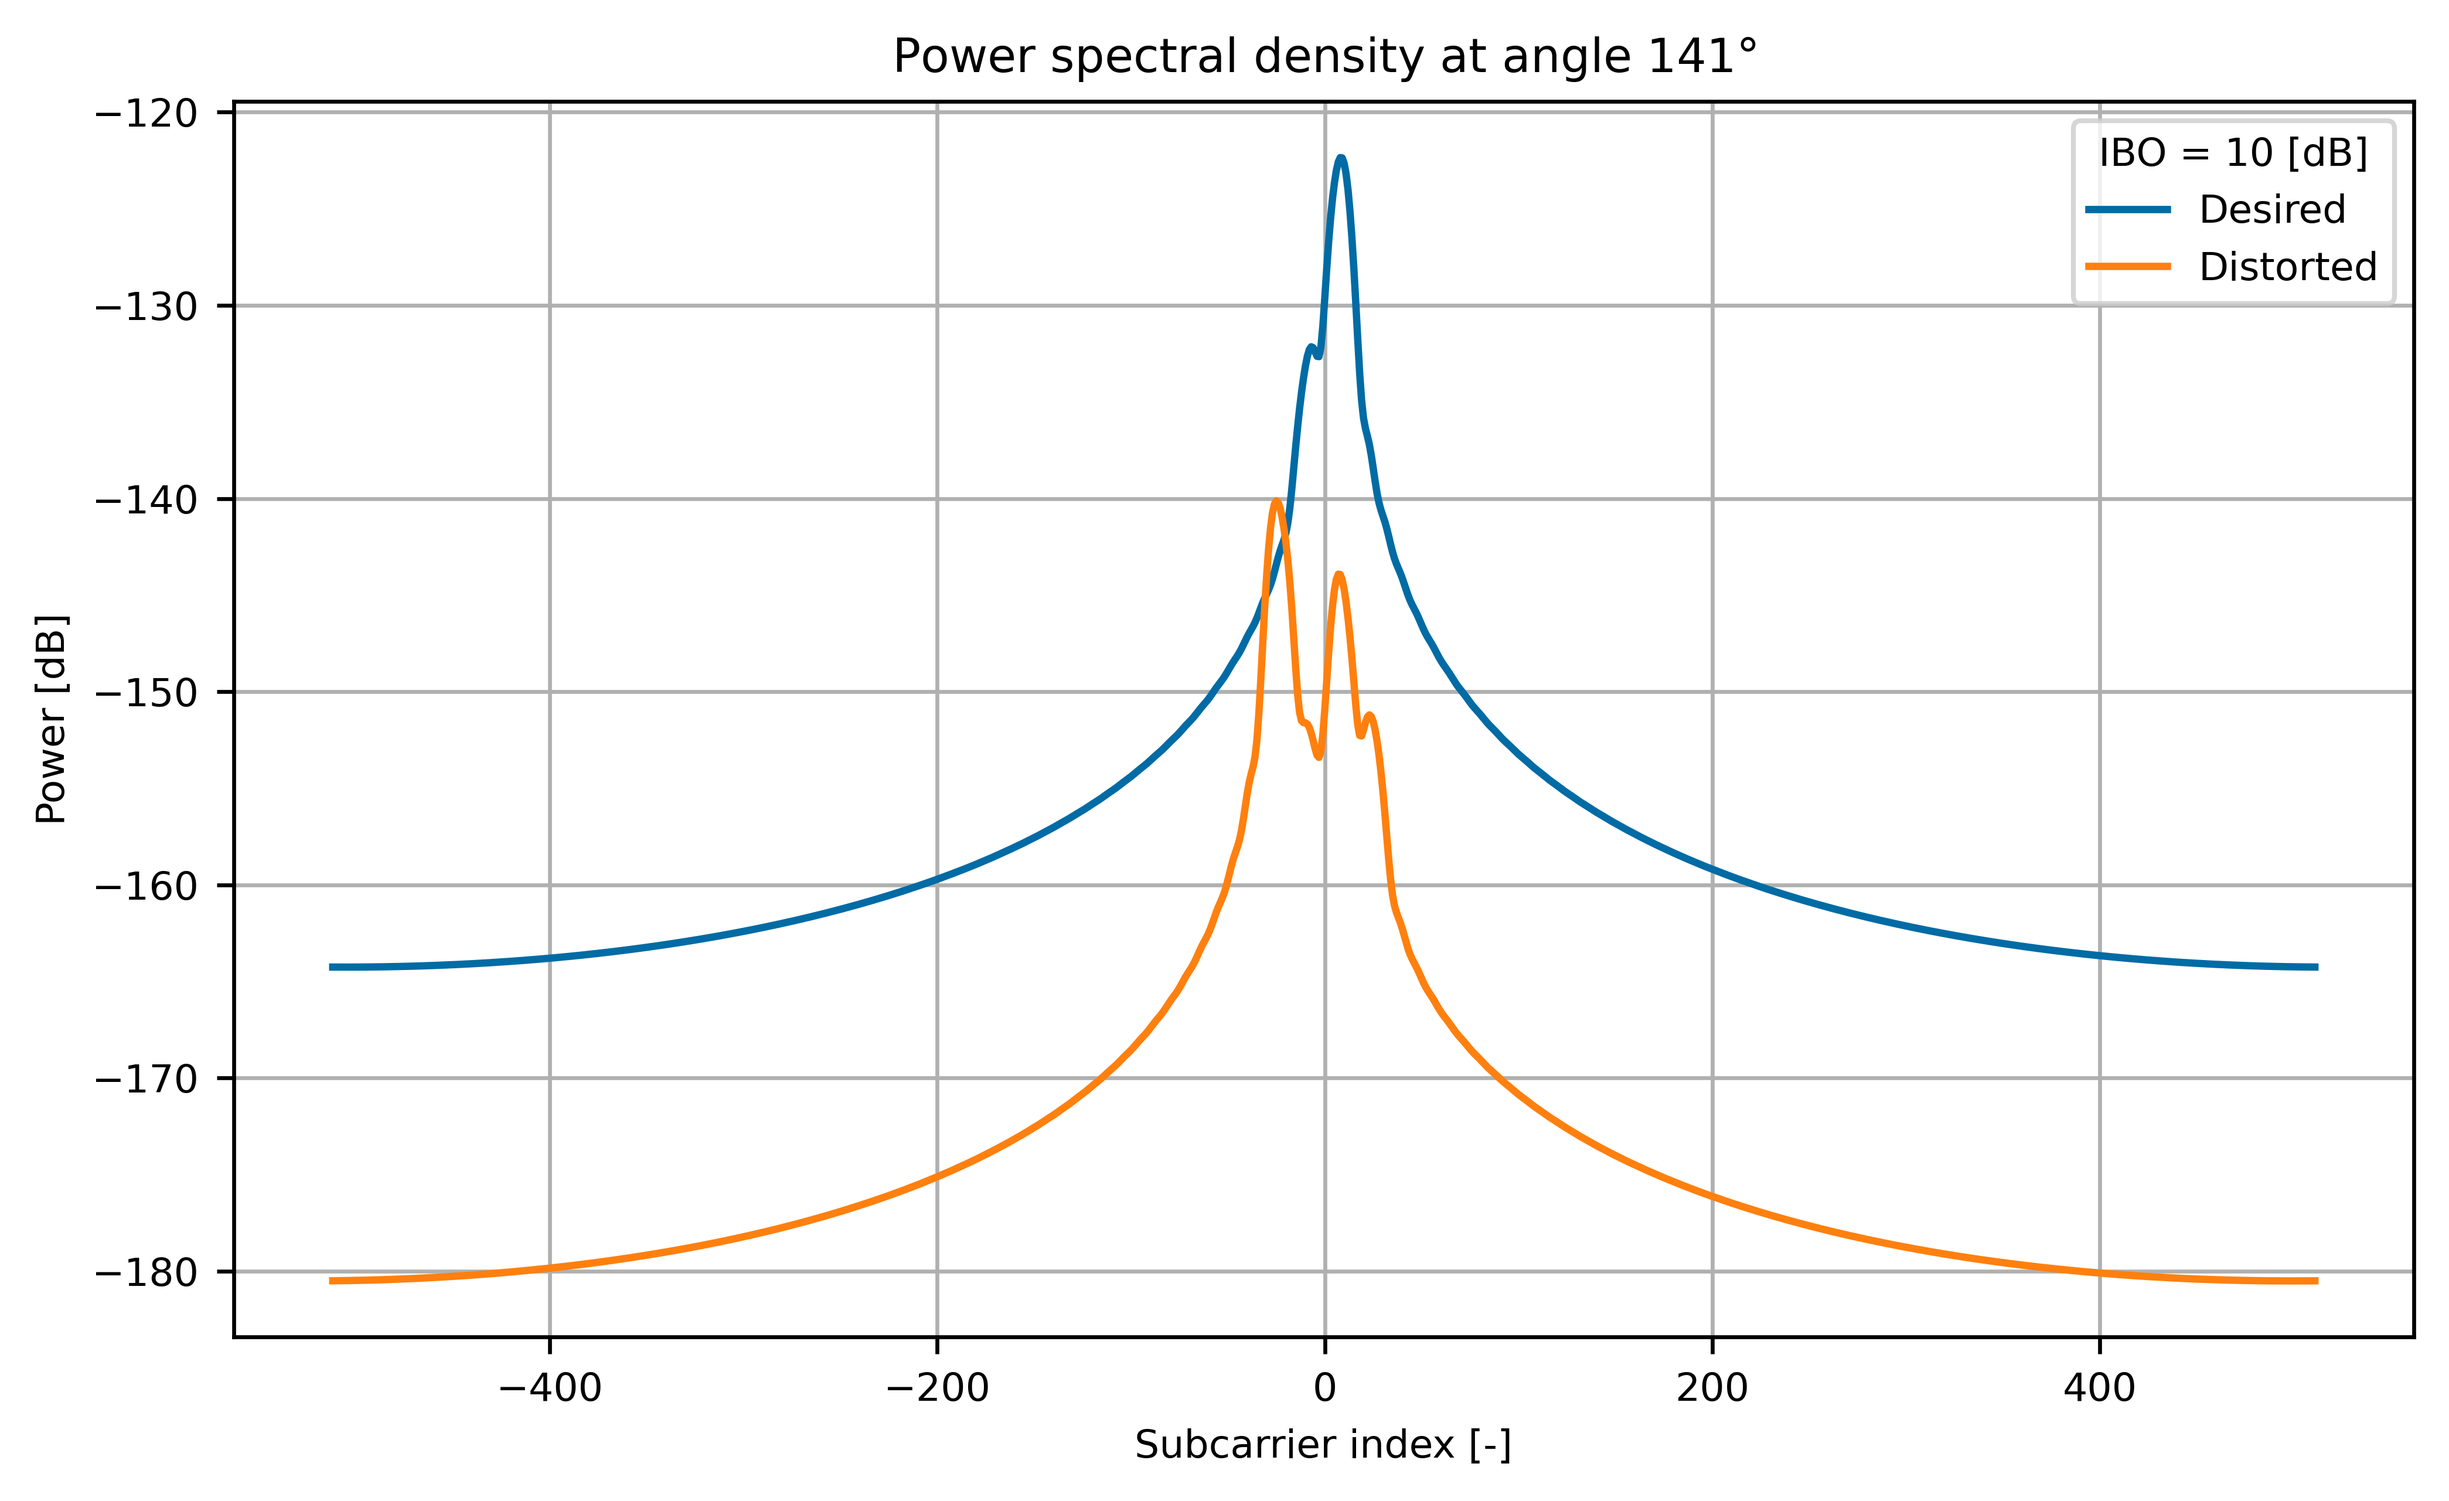
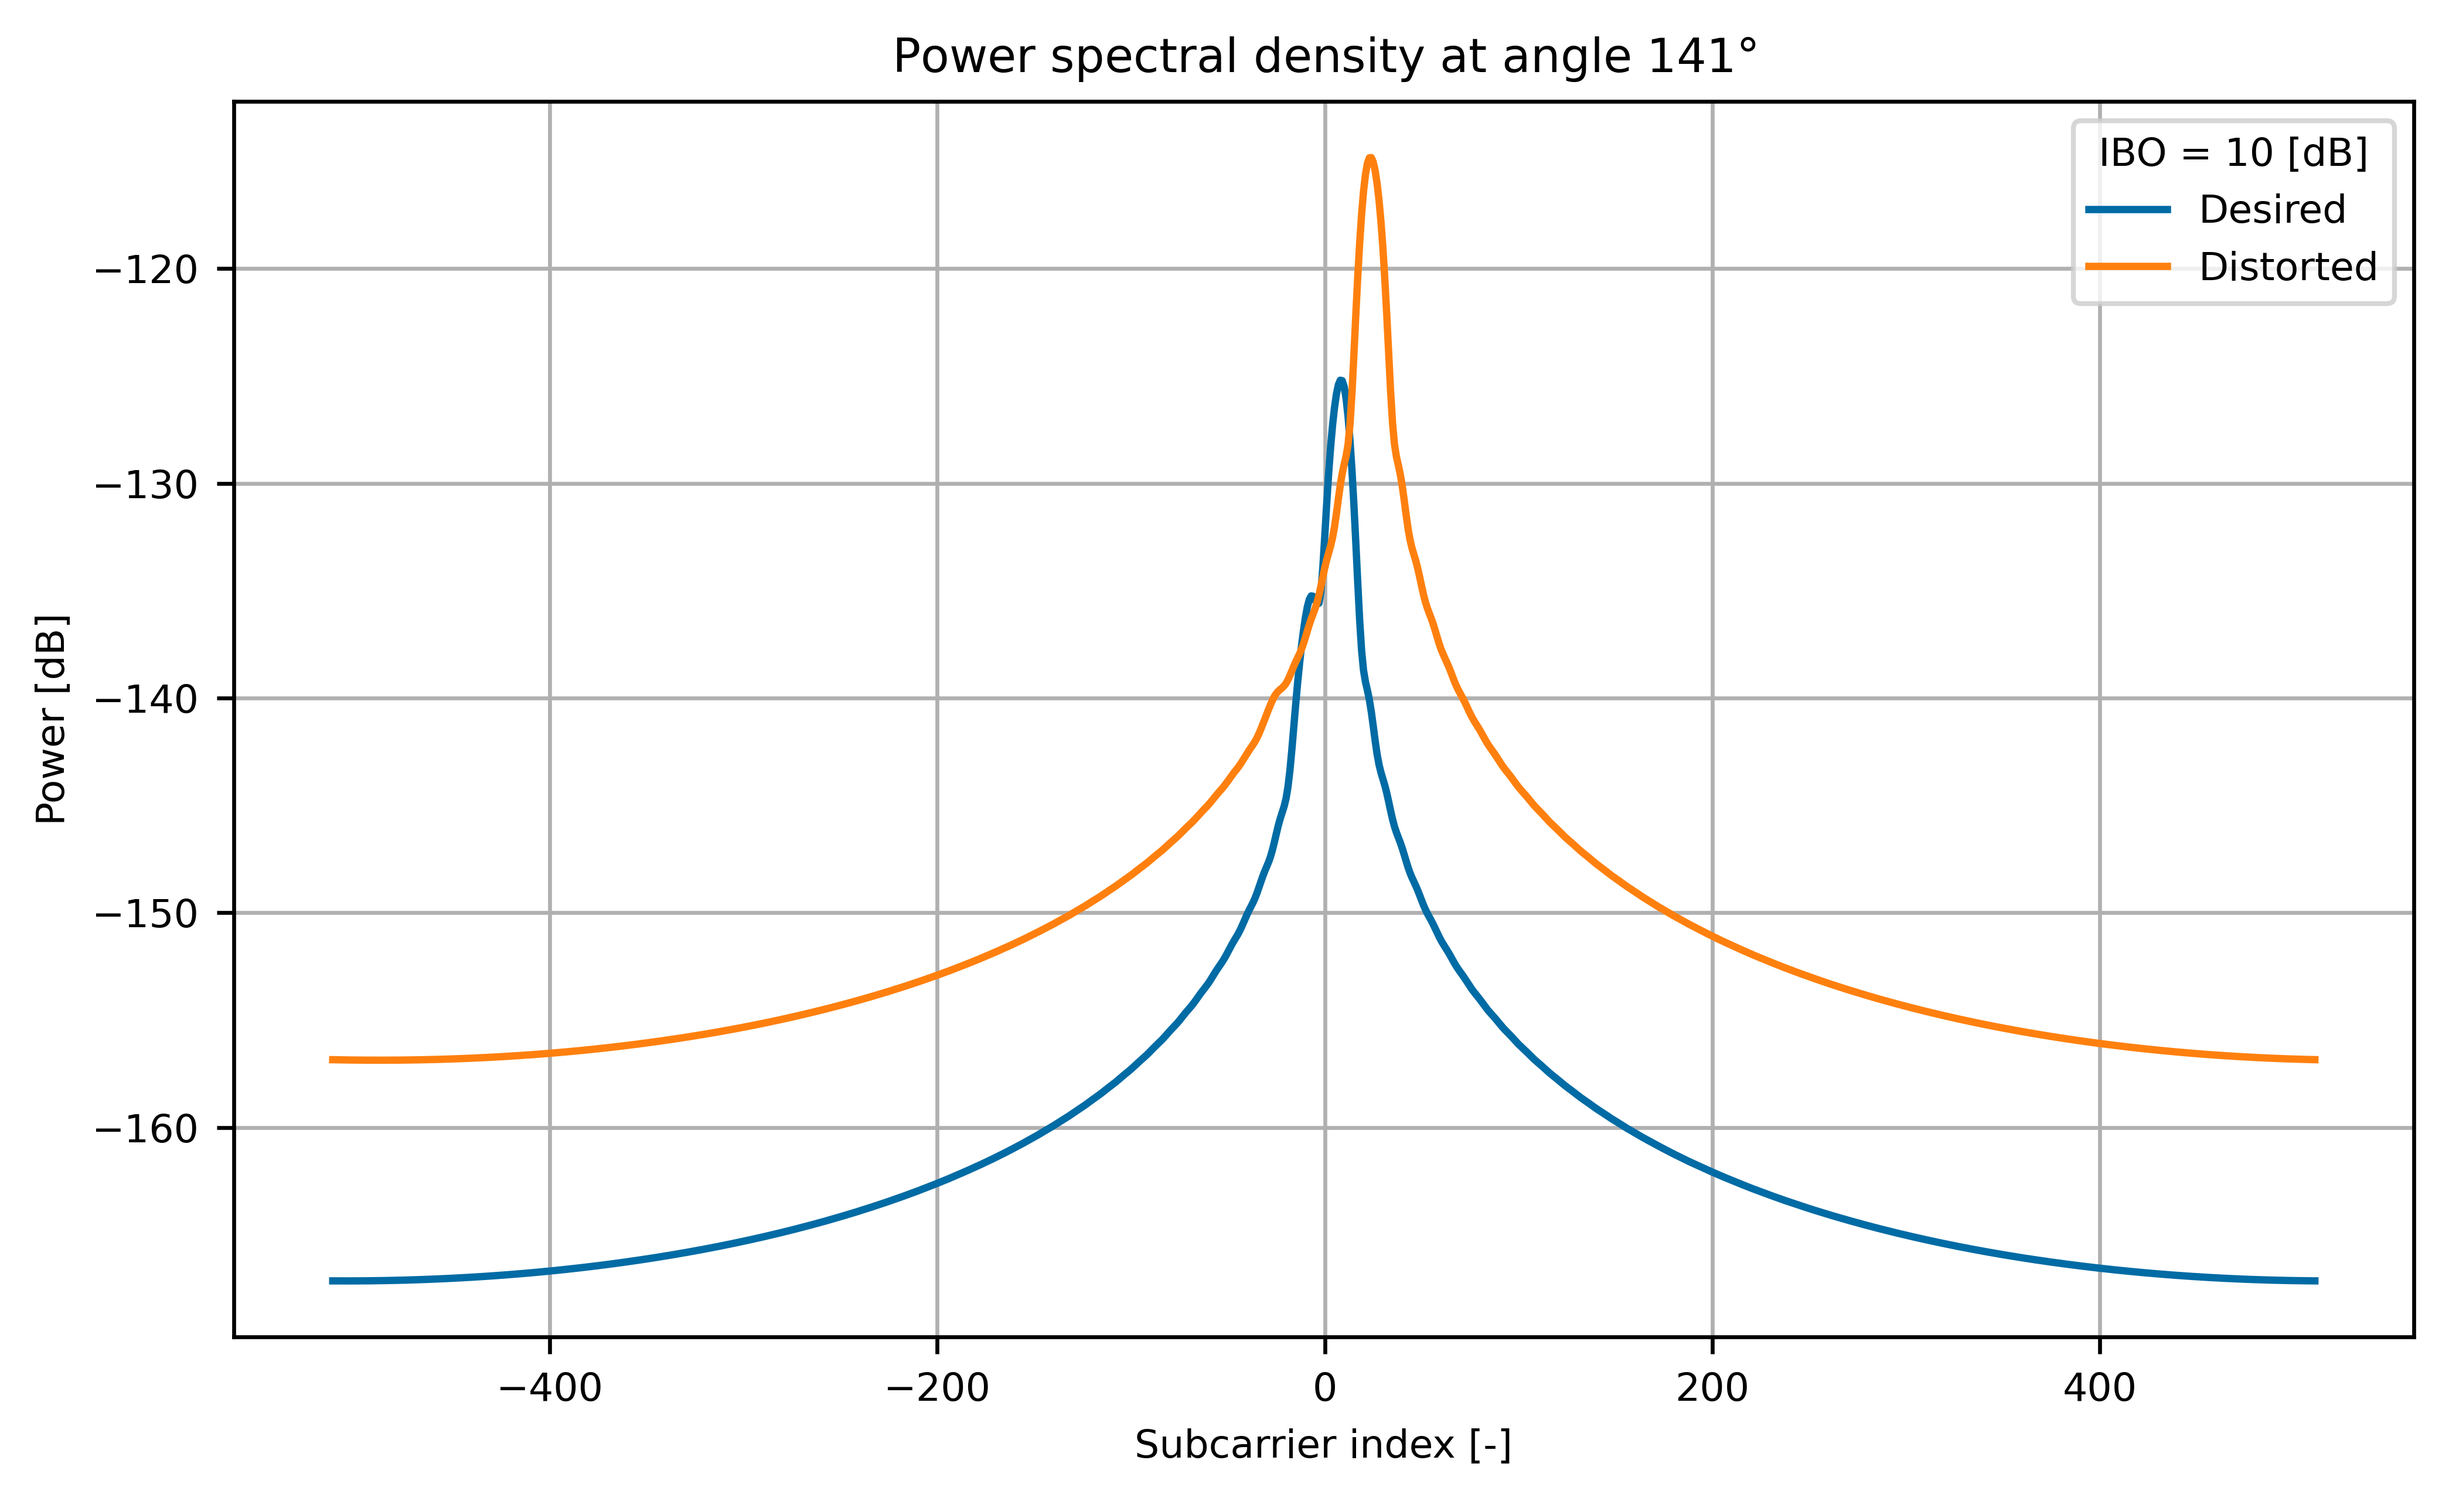
added distortion beampattern prediction

diff --git a/main_multiuser/main_separate_sc_per_usr_psd_and_beampatterns.py b/main_multiuser/main_separate_sc_per_usr_psd_and_beampatterns.py
@@ -28,10 +28,11 @@ from plot_settings import set_latex_plot_style
 if __name__ == '__main__':
     set_latex_plot_style()
     # Multiple users data
-    usr_angles = np.array([90, 60])
+    usr_angles_deg = np.array([-15, 15])
+    usr_angles_rad = np.deg2rad(usr_angles_deg)
     usr_distances = [300, 300]
     usr_pos_tup = []
-    for usr_idx, usr_angle in enumerate(usr_angles):
+    for usr_idx, usr_angle in enumerate(usr_angles_deg+90):
         usr_pos_x = np.cos(np.deg2rad(usr_angle)) * usr_distances[usr_idx]
         usr_pos_y = np.sin(np.deg2rad(usr_angle)) * usr_distances[usr_idx]
         usr_pos_tup.append((usr_pos_x, usr_pos_y))
@@ -77,7 +78,7 @@ if __name__ == '__main__':
     n_points = 180 * 1
     radial_distance = 300
     rx_points = utilities.pts_on_semicircum(r=radial_distance, n=n_points)
-    radian_vals = np.radians(np.linspace(0, 180, n_points + 1))
+    radian_vals = np.radians(np.linspace(-90, 90, n_points + 1))
 
     # PSD at angle
     plot_psd = True
@@ -135,11 +136,29 @@ if __name__ == '__main__':
 
                     my_tmp_array = antenna_arrray.LinearArray(n_elements=n_ant_val, base_transceiver=my_tmp_tx,
                                                               center_freq=int(3.5e9),
-                                                              wav_len_spacing=0.5, cord_x=0, cord_y=0, cord_z=15)
+                                                              wav_len_spacing=0.5, cord_x=0, cord_y=0, cord_z=1.5)
                     my_tmp_miso_los_chan = channel.MisoLosFd()
                     my_tmp_miso_los_chan.calc_channel_mat(tx_transceivers=my_tmp_array.array_elements,
                                                           rx_transceiver=my_standard_rx,
                                                           skip_attenuation=False)
+
+                    # #%%
+                    # # plot the placement
+                    # fig1, ax1 = plt.subplots(1, 1, figsize=(3.5, 3))
+                    # ax1.set_aspect('equal', 'box')
+                    # plt.tight_layout()
+                    # for val_x, val_y in rx_points:
+                    #     ax1.plot(val_x, val_y, marker='o', color="gray")
+                    # for usr_x, usr_y in usr_pos_tup:
+                    #     ax1.plot(usr_x, usr_y, marker='*', color="red")
+                    # for tx_obj in my_array.array_elements:
+                    #     ax1.plot(tx_obj.cord_x, tx_obj.cord_y, marker='1', color='black')
+                    # ax1.set_title("Placement")7
+                    # ax1.legend()
+                    # ax1.grid()
+                    # plt.show()
+
+                    #%%
                     start_time = time.time()
                     bit_rng = np.random.default_rng(4321)
                     n_ofdm_symb = 1e3
@@ -420,10 +439,10 @@ if __name__ == '__main__':
                     # %%
                     # plot beampatterns of desired and distortion components
                     fig1, ax1 = plt.subplots(1, 1, subplot_kw=dict(projection='polar'), figsize=(3.5, 3))
-                    ax1.set_theta_zero_location("E")
+                    ax1.set_theta_zero_location("N")
                     plt.tight_layout()
-                    ax1.set_thetalim(0, np.pi)
-                    ax1.set_xticks(np.pi / 180. * np.linspace(0, 180, 13, endpoint=True))
+                    ax1.set_thetalim(-np.pi/2, np.pi/2)
+                    ax1.set_xticks(np.pi / 180. * np.linspace(-90, 90, 13, endpoint=True))
                     ax1.yaxis.set_major_locator(MaxNLocator(5))
 
                     dist_lines_lst = []
@@ -437,14 +456,17 @@ if __name__ == '__main__':
 
                     # plot reference angles/directions
                     (y_min, y_max) = ax1.get_ylim()
-                    ax1.vlines(np.deg2rad(usr_angles), y_min, y_max, colors='k',
-                               linestyles='--')  # label="Users")
+                    ax1.vlines(np.deg2rad(usr_angles_deg), y_min, y_max, colors='k', linestyles='--', zorder=10)  # label="Users")
+
+                    dist_angles = ([(np.arcsin(2*np.sin(usr_angles_rad[0])-np.sin(usr_angles_rad[1]))), np.arcsin(2*np.sin(usr_angles_rad[1])-np.sin(usr_angles_rad[0]))])
+                    ax1.vlines(dist_angles, y_min, y_max, colors='k', linestyles=':', zorder=10)  # label="Expected distortion")
+
                     ax1.margins(0.0, 0.0)
                     ax1.set_title("Signal power at angle [dB]", pad=-15)
                     ax1.legend(title="Signal:", ncol=2, loc='lower center', borderaxespad=-2)
                     ax1.grid(True)
                     beampattern_filename_str = "multiuser_sep_sc_%s_%s_desired_and_distortion_signal_beampattern_ibo%d_angles%s_distances%s_npoints%d_nsnap%d_nant%s" % (
-                            my_distortion, my_miso_chan, ibo_val_db, '_'.join([str(val) for val in usr_angles]),
+                            my_distortion, my_miso_chan, ibo_val_db, '_'.join([str(val) for val in usr_angles_deg]),
                             '_'.join([str(val) for val in usr_distances]), n_points, beampattern_n_snapshots,
                             '_'.join([str(val) for val in [n_ant_val]]))
                     plt.savefig(
@@ -701,7 +723,7 @@ if __name__ == '__main__':
             #     # %%
             #     filename_str = "mu_ber_vs_ebn0_cnc_%s_nant%d_ibo%d_ebn0_min%d_max%d_step%1.2f_niter%s_angles%s_distances%s" % (
             #         my_miso_chan, n_ant_val, ibo_val_db, min(ebn0_arr), max(ebn0_arr), ebn0_arr[1] - ebn0_arr[0],
-            #         '_'.join([str(val) for val in cnc_n_iter_lst[1:]]), '_'.join([str(val) for val in usr_angles]),
+            #         '_'.join([str(val) for val in cnc_n_iter_lst[1:]]), '_'.join([str(val) for val in usr_angles_deg]),
             #     '_'.join([str(val) for val in usr_distances]) )
             #
             #     # timestamp = datetime.now().strftime("%Y-%m-%d-%H-%M-%S")

diff --git a/main_multiuser/main_shared_sc_psd_and_beampatterns.py b/main_multiuser/main_shared_sc_psd_and_beampatterns.py
@@ -28,10 +28,11 @@ from plot_settings import set_latex_plot_style
 if __name__ == '__main__':
     set_latex_plot_style()
     # Multiple users data
-    usr_angles = np.array([90, 60])
+    usr_angles_deg = np.array([-15, 15])
+    usr_angles_rad = np.deg2rad(usr_angles_deg)
     usr_distances = [300, 300]
     usr_pos_tup = []
-    for usr_idx, usr_angle in enumerate(usr_angles):
+    for usr_idx, usr_angle in enumerate(usr_angles_deg+90):
         usr_pos_x = np.cos(np.deg2rad(usr_angle)) * usr_distances[usr_idx]
         usr_pos_y = np.sin(np.deg2rad(usr_angle)) * usr_distances[usr_idx]
         usr_pos_tup.append((usr_pos_x, usr_pos_y))
@@ -77,7 +78,7 @@ if __name__ == '__main__':
     n_points = 180 * 1
     radial_distance = 300
     rx_points = utilities.pts_on_semicircum(r=radial_distance, n=n_points)
-    radian_vals = np.radians(np.linspace(0, 180, n_points + 1))
+    radian_vals = np.radians(np.linspace(-90, 90, n_points + 1))
 
     # PSD at angle
     plot_psd = True
@@ -88,7 +89,7 @@ if __name__ == '__main__':
     n_samp_per_seg = 256
 
     my_mod = modulation.OfdmQamModem(constel_size=constel_size, n_fft=n_fft, n_sub_carr=n_sub_carr, cp_len=cp_len,
-                                     n_users=len(usr_angles))
+                                     n_users=len(usr_angles_deg))
 
     my_distortion = distortion.ThirdOrderNonLin(toi_db=ibo_arr[0], avg_samp_pow=my_mod.avg_sample_power)
     # my_distortion = distortion.SoftLimiter(ibo_db=ibo_arr[0], avg_samp_pow=my_mod.avg_sample_power)
@@ -421,10 +422,10 @@ if __name__ == '__main__':
                     # %%
                     # plot beampatterns of desired and distortion components
                     fig1, ax1 = plt.subplots(1, 1, subplot_kw=dict(projection='polar'), figsize=(3.5, 3))
-                    ax1.set_theta_zero_location("E")
+                    ax1.set_theta_zero_location("N")
                     plt.tight_layout()
-                    ax1.set_thetalim(0, np.pi)
-                    ax1.set_xticks(np.pi / 180. * np.linspace(0, 180, 13, endpoint=True))
+                    ax1.set_thetalim(-np.pi/2, np.pi/2)
+                    ax1.set_xticks(np.pi / 180. * np.linspace(-90, 90, 13, endpoint=True))
                     ax1.yaxis.set_major_locator(MaxNLocator(5))
 
                     dist_lines_lst = []
@@ -438,14 +439,18 @@ if __name__ == '__main__':
 
                     # plot reference angles/directions
                     (y_min, y_max) = ax1.get_ylim()
-                    ax1.vlines(np.deg2rad(usr_angles), y_min, y_max, colors='k',
+                    ax1.vlines(np.deg2rad(usr_angles_deg), y_min, y_max, colors='k',
                                linestyles='--')  # label="Users")
+
+                    dist_angles = ([(np.arcsin(2*np.sin(usr_angles_rad[0])-np.sin(usr_angles_rad[1]))), np.arcsin(2*np.sin(usr_angles_rad[1])-np.sin(usr_angles_rad[0]))])
+                    ax1.vlines(dist_angles, y_min, y_max, colors='k',
+                               linestyles=':', zorder=10)  # label="Expected distortion")
                     ax1.margins(0.0, 0.0)
                     ax1.set_title("Signal power at angle [dB]", pad=-15)
                     ax1.legend(title="Signal:", ncol=2, loc='lower center', borderaxespad=-2)
                     ax1.grid(True)
                     beampattern_filename_str = "multiuser_shared_sc_%s_%s_desired_and_distortion_signal_beampattern_ibo%d_angles%s_distances%s_npoints%d_nsnap%d_nant%s" % (
-                            my_distortion, my_miso_chan, ibo_val_db, '_'.join([str(val) for val in usr_angles]),
+                            my_distortion, my_miso_chan, ibo_val_db, '_'.join([str(val) for val in usr_angles_deg]),
                             '_'.join([str(val) for val in usr_distances]), n_points, beampattern_n_snapshots,
                             '_'.join([str(val) for val in [n_ant_val]]))
                     plt.savefig("../figs/multiuser/distortion_directions_eval/%s.png" %(beampattern_filename_str), dpi=600, bbox_inches='tight')
@@ -701,7 +706,7 @@ if __name__ == '__main__':
             #     # %%
             #     filename_str = "mu_ber_vs_ebn0_cnc_%s_nant%d_ibo%d_ebn0_min%d_max%d_step%1.2f_niter%s_angles%s_distances%s" % (
             #         my_miso_chan, n_ant_val, ibo_val_db, min(ebn0_arr), max(ebn0_arr), ebn0_arr[1] - ebn0_arr[0],
-            #         '_'.join([str(val) for val in cnc_n_iter_lst[1:]]), '_'.join([str(val) for val in usr_angles]),
+            #         '_'.join([str(val) for val in cnc_n_iter_lst[1:]]), '_'.join([str(val) for val in usr_angles_deg]),
             #     '_'.join([str(val) for val in usr_distances]) )
             #
             #     # timestamp = datetime.now().strftime("%Y-%m-%d-%H-%M-%S")
